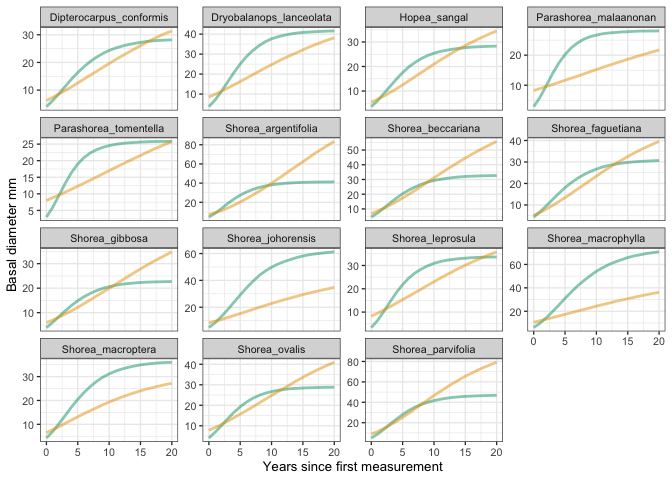
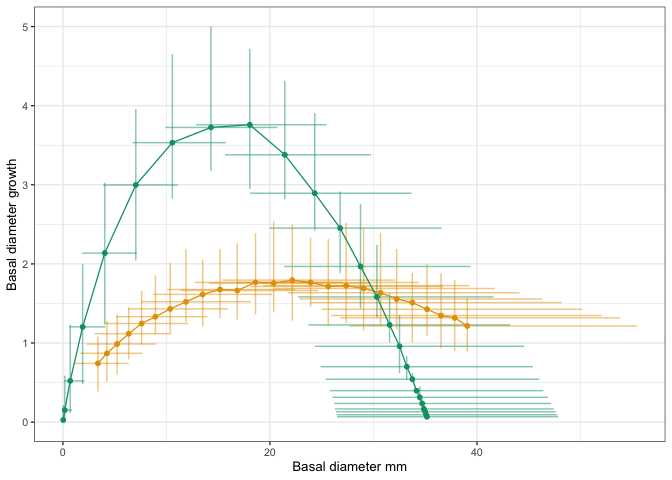
additional figure

diff --git a/code/notebooks/2026-01-19_growth-model-reparameterisation.md b/code/notebooks/2026-01-19_growth-model-reparameterisation.md
@@ -1,6 +1,6 @@
 # Reparameterising the growth model
 eleanorjackson
-2026-01-22
+2026-01-26
 
 - [Check priors](#check-priors)
 - [Check forest type preds](#check-forest-type-preds)
@@ -44,7 +44,7 @@ summary(mod_gro)
 ```
 
      Family: lognormal 
-      Links: mu = identity 
+      Links: mu = identity; sigma = identity 
     Formula: dbase_mean ~ logA - exp(-(exp(logkG) * (years - Ti))) 
              logA ~ 0 + forest_type + (0 + forest_type | genus_species) + (1 | plant_id)
              logkG ~ 0 + forest_type + (0 + forest_type | genus_species) + (1 | plant_id)
@@ -175,21 +175,41 @@ prior_post %>%
 ## Check forest type preds
 
 ``` r
-data_gro <-
-  readRDS(here::here("data", "derived", "data_cleaned.rds")) %>%
-  filter(survival == 1) %>%
-  drop_na(dbase_mean)
+# predicting diameter at 1 year time points
+gro_epred <-
+  mod_gro$data %>%
+  modelr::data_grid(years = c(-5:20),
+            forest_type) %>%
+  add_epred_draws(mod_gro,
+                  re_formula = NA) %>% 
+  mutate(forest_type = case_when(
+      grepl("logged", forest_type) ~ "Logged",
+      grepl("primary", forest_type) ~ "Old-growth")) 
 ```
 
 ``` r
-# predicting diameter at 1 year time points
-gro_epred <-
-  data_gro %>%
-  modelr::data_grid(years = c(0:20),
-            forest_type) %>%
-  add_epred_draws(mod_gro,
-                  re_formula = NA)
+pal <-
+  c("Logged" = "#e69f00", "Old-growth" = "#009e73")
+```
 
+``` r
+ggplot() +
+  stat_lineribbon(data = gro_epred,
+                  aes(x = years, y = .epred, 
+                      colour = forest_type, group = forest_type),
+                  .width = 0,
+                  alpha = 0.5,
+                  linewidth = 1,
+                  show.legend = FALSE) +
+  scale_colour_manual(values = pal) +
+  geom_vline(xintercept = 0, linetype = 2) +
+  labs(y = "Basal diameter mm",
+       x = "Years since first measurement") 
+```
+
+![](figures/2026-01-19_growth-model-reparameterisation/unnamed-chunk-8-1.png)
+
+``` r
 # calculate growth rate
 gro_rate_epred <-
   gro_epred %>%
@@ -215,13 +235,7 @@ gro_rate_epred <-
 ```
 
 ``` r
-pal <-
-  c("Logged" = "#e69f00", "Old-growth" = "#009e73")
-
 gro_rate_epred %>%
-    mutate(forest_type = case_when(
-      grepl("logged", forest_type) ~ "Logged",
-      grepl("primary", forest_type) ~ "Old-growth")) %>%
     ggplot(aes(x = x_value, y = y_value,
                xmin = x_min, xmax = x_max,
                ymin = y_min, ymax = y_max,
@@ -234,17 +248,17 @@ gro_rate_epred %>%
     geom_line(show.legend = FALSE) +
     scale_fill_manual(values = pal) +
     scale_colour_manual(values = pal) +
-    labs(x = "Basal diameter (mm)",
+    labs(x = "Basal diameter mm",
          y = "Basal diameter growth")
 ```
 
-![](figures/2026-01-19_growth-model-reparameterisation/unnamed-chunk-8-1.png)
+![](figures/2026-01-19_growth-model-reparameterisation/unnamed-chunk-10-1.png)
 
 ## Check species preds
 
 ``` r
 preds_sp <- 
-  modelr::data_grid(data_gro, 
+  modelr::data_grid(mod_gro$data, 
                     forest_type, genus_species,
                     years = c(0:20)) %>%
   add_epred_draws(mod_gro,
@@ -274,7 +288,7 @@ ggplot() +
        x = "Years since first measurement") 
 ```
 
-![](figures/2026-01-19_growth-model-reparameterisation/unnamed-chunk-10-1.png)
+![](figures/2026-01-19_growth-model-reparameterisation/unnamed-chunk-12-1.png)
 
 ## Check individual preds
 
@@ -319,4 +333,4 @@ ggplot() +
        x = "Years since first measurement") 
 ```
 
-![](figures/2026-01-19_growth-model-reparameterisation/unnamed-chunk-12-1.png)
+![](figures/2026-01-19_growth-model-reparameterisation/unnamed-chunk-14-1.png)
